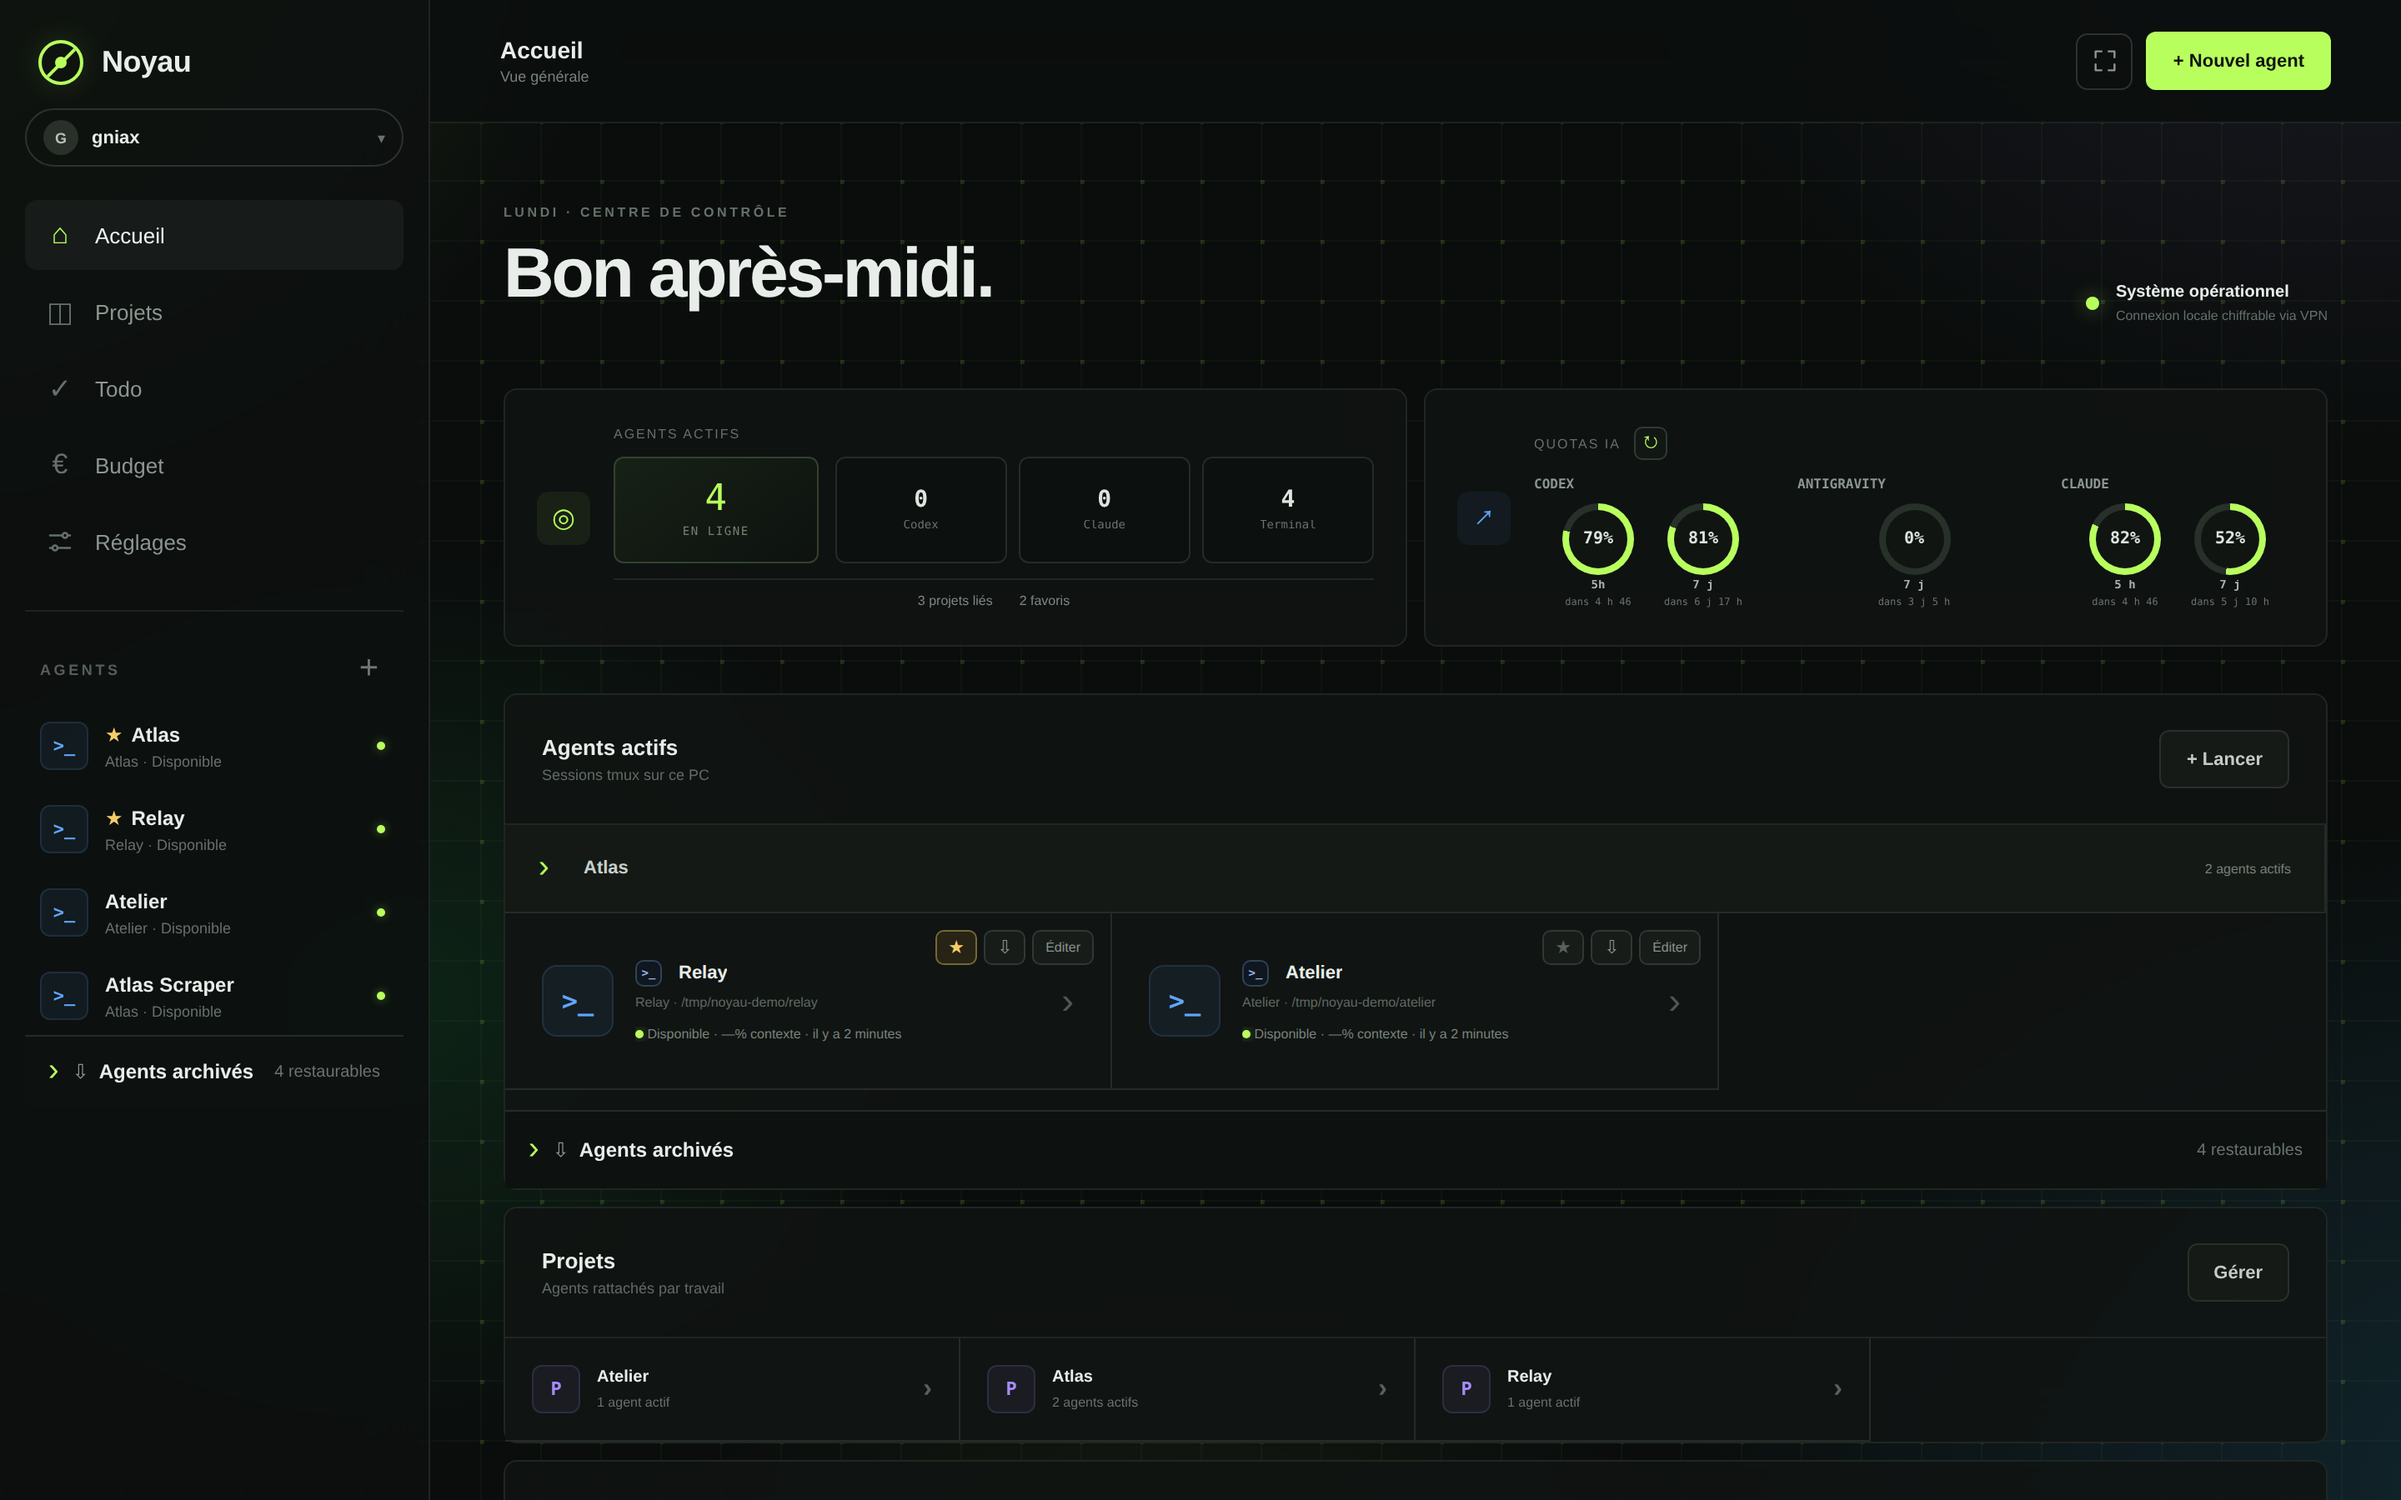
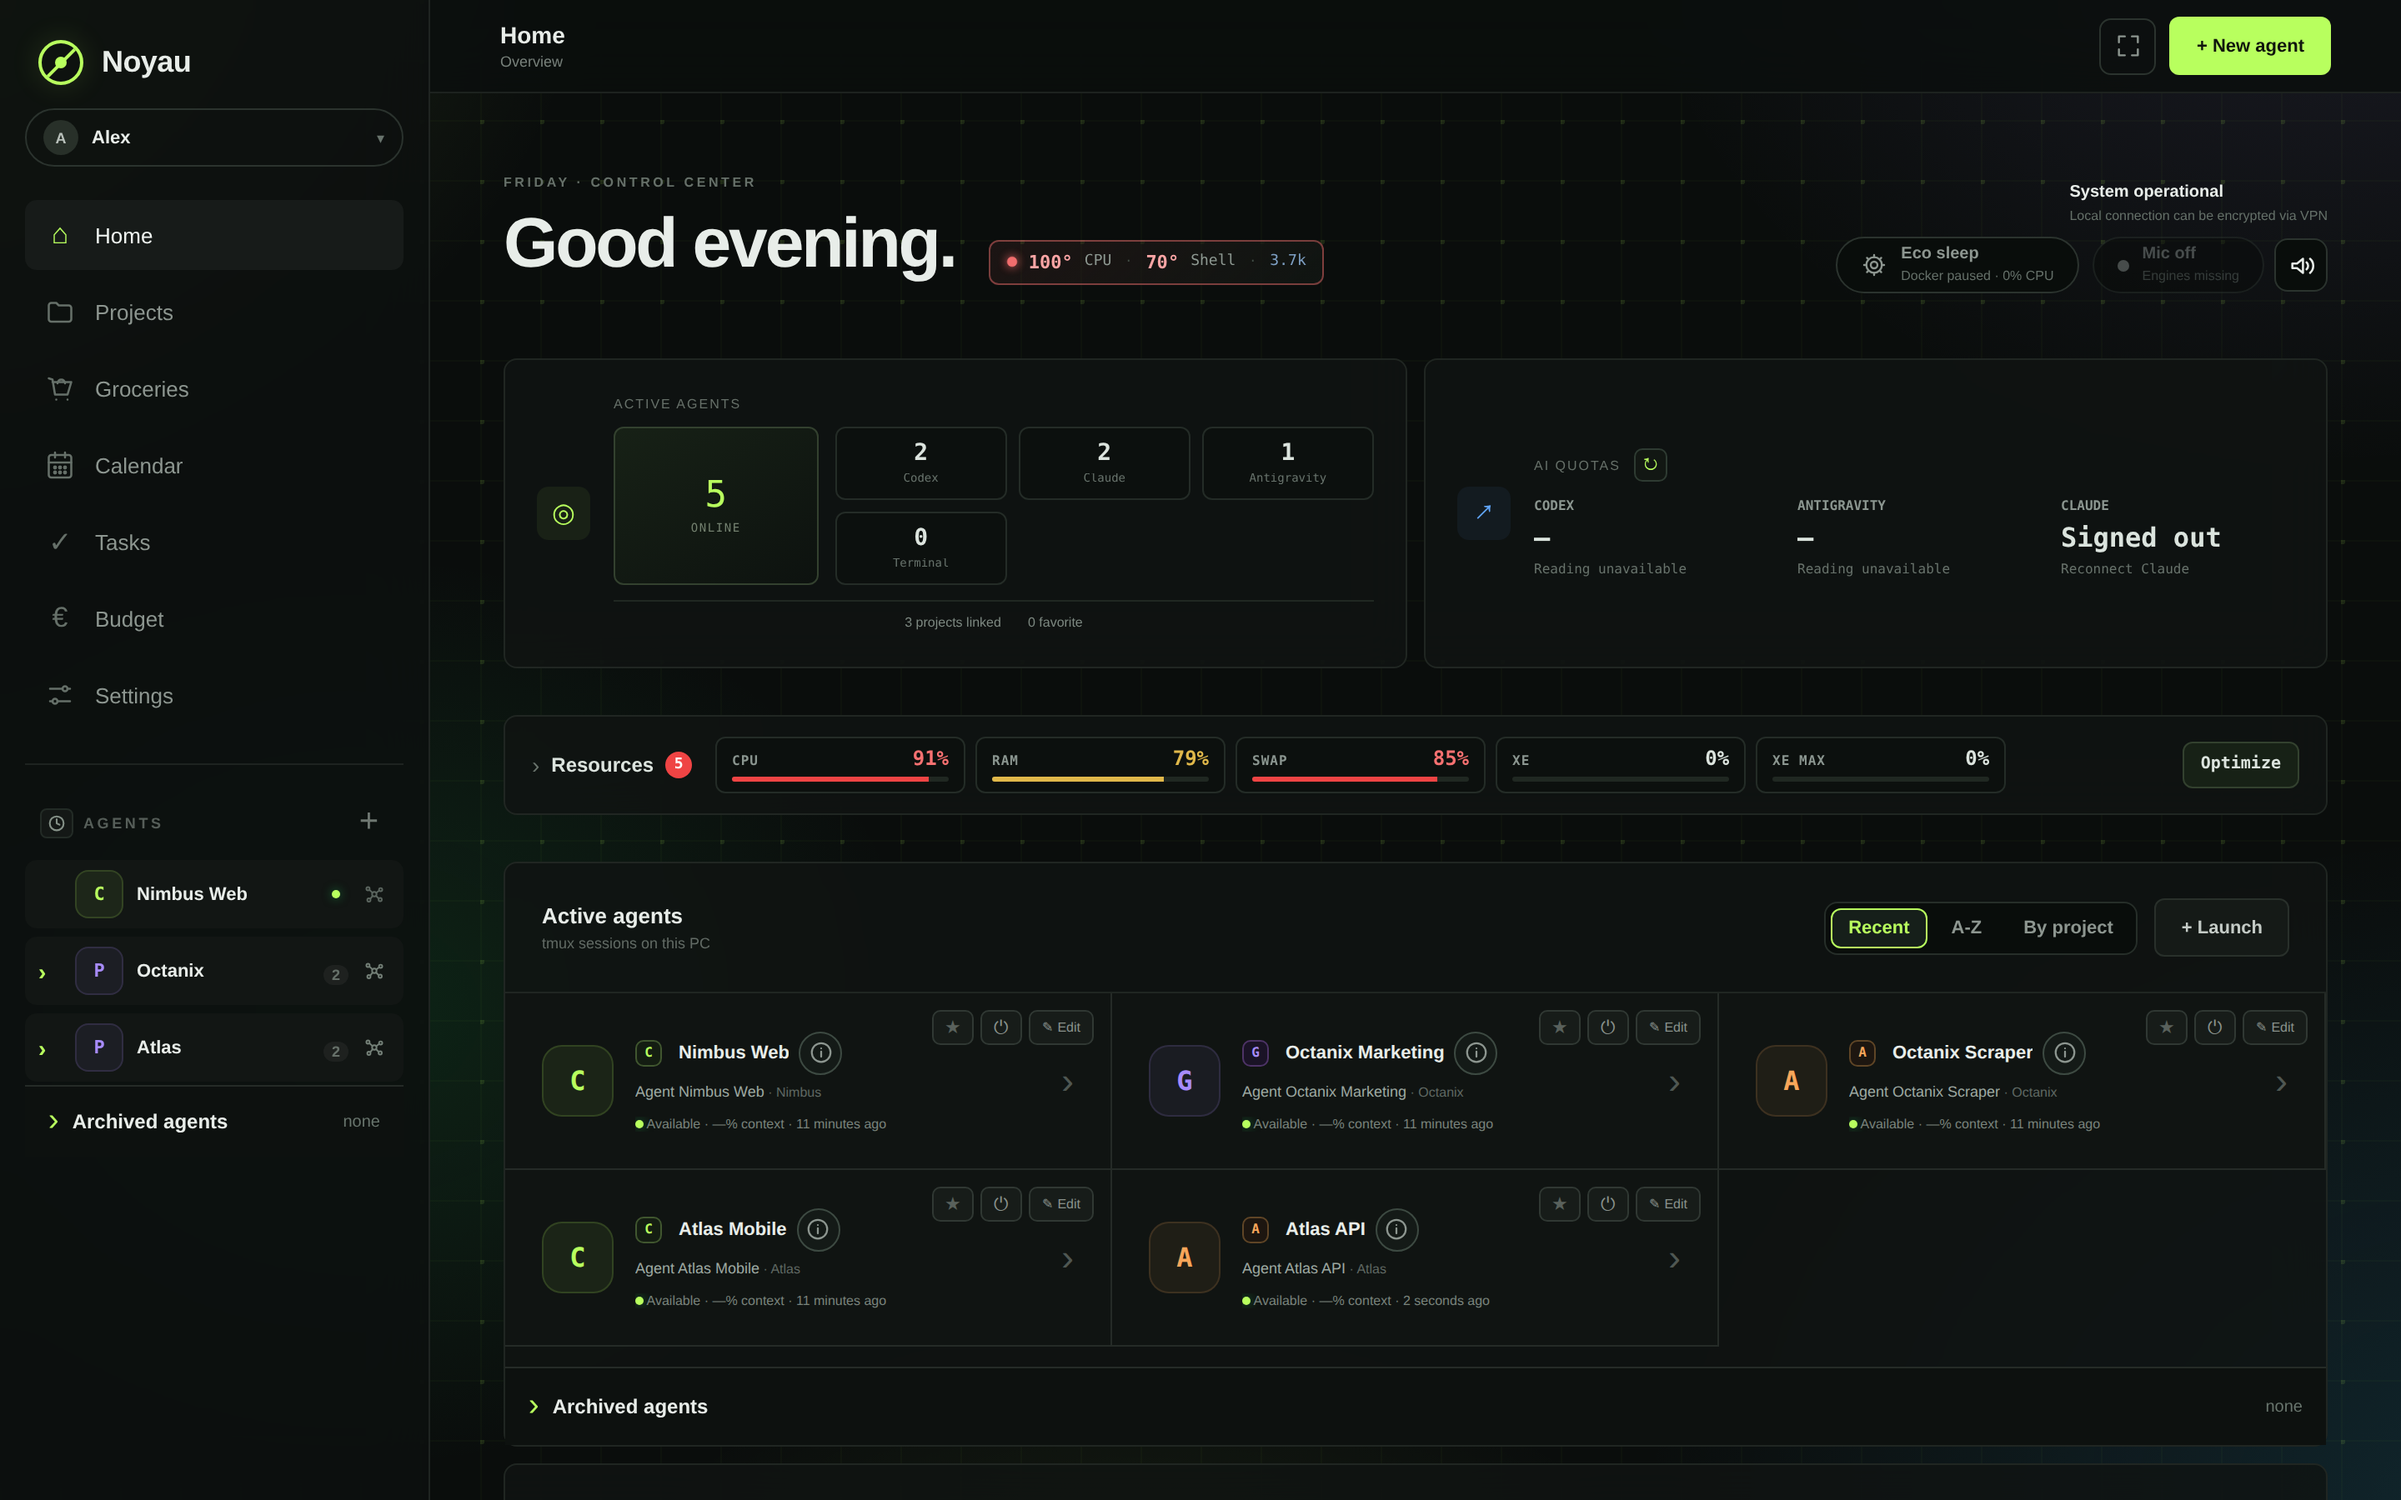
Noyau: developer-focused write-up and fresh English screenshots
Multi-agent memory, agent-to-agent messaging, engine switching, project map and
shared files, shown on a demo instance with fictional data.

diff --git a/app.js b/app.js
@@ -925,20 +925,20 @@ const projects = {
     category: "systems",
     filters: ["ai", "tools", "software"],
     sortYear: 2026,
-    sortMonth: 9,
-    railNote: "AI agents, tmux sessions, task tracking",
+    sortMonth: 10,
+    railNote: "multi-agent memory, agent-to-agent, any engine",
     period: "current",
     kind: "Local control center",
     title: "Noyau",
     summary:
-      "Local control center for CLI coding agents: Codex, Claude Code and Antigravity run in persistent tmux sessions, driven from a web UI that also tracks tasks, projects and budget.",
-    tech: ["Node.js", "Express", "React", "WebSocket", "tmux", "Linux"],
-    meta: ["AI agents", "Real-time terminal", "PWA", "Web Push", "Obsidian", "Self-hosted"],
+      "Local control center for CLI coding agents: Claude Code, Codex and Antigravity run side by side in persistent tmux sessions, share a memory that survives engine switches, hand work to each other and drop deliverables in shared project files.",
+    tech: ["Node.js", "Express", "React", "WebSocket", "tmux", "pdf.js", "Capacitor", "Linux"],
+    meta: ["Multi-agent", "Persistent memory", "Agent-to-agent", "Project map", "PWA & native app", "EN / FR", "Self-hosted"],
     points: [
-      "Agents survive tabs, restarts and network drops — each one is a tmux session streamed to xterm.js over a WebSocket, with a touch key bar and provider switching that carries the conversation over.",
-      "Task board stored as hand-editable Markdown in an Obsidian vault: custom zones, short *A1B2 references clickable inside an agent terminal, unread badges and agent-written comments.",
-      "Envelope-based budget on the side: recurring charges, tracked assets, a monthly plan and LLM-assisted categorisation, with an optional bank connection.",
-      "A prompt hook feeds each agent the open tasks of its project and makes it record every change or bug, so nothing gets lost between sessions.",
+      "One agent, any engine: switch an agent from Claude Code to Codex or Antigravity and back in the same tmux pane — identity, project and context carry over through an automatic handover.",
+      "Persistent multi-agent memory: durable notes, decisions and checkpoints per agent, injected at start-up and after every switch, written by the agents themselves before their context changes.",
+      "Agents talk to each other from their own terminal (list, read context, send, create), with messages queued while you type; a live project map shows who runs what and who talks to whom, plus the APIs detected in the code.",
+      "Shared files per project with one-click previews in the chat (images, PDF via pdf.js, media, CSV), a Trello-style task board in Markdown fed by a prompt hook, optional modules and an English/French UI.",
     ],
     links: [
       { label: "View source", url: "https://github.com/gniax/noyau" },
@@ -946,12 +946,14 @@ const projects = {
     media() {
       return renderSlider("noyau-media", [
         "assets/images/noyau/hero.jpg",
+        "assets/images/noyau/terminal.png",
+        "assets/images/noyau/provider-switch.png",
+        "assets/images/noyau/agent-memory.png",
+        "assets/images/noyau/project-map.png",
+        "assets/images/noyau/shared-files.png",
         "assets/images/noyau/dashboard.png",
         "assets/images/noyau/todos-board.png",
         "assets/images/noyau/projects.png",
-        "assets/images/noyau/terminal.png",
-        "assets/images/noyau/budget.png",
-        "assets/images/noyau/todos-folders.png",
       ]);
     },
   },
@@ -2005,7 +2007,7 @@ function renderProject(project) {
 
 // Note affichee sur la premiere vue d'un carrousel: sert a signaler une image retouchee.
 const SLIDER_NOTES = {
-  "noyau-media": "Image edited with AI: agent names, projects and figures were replaced so no real data shows — it does not match the real interface exactly.",
+  "noyau-media": "Screenshots of a demo instance with fictional projects, agents and tasks — no real data.",
 };
 
 function renderSlider(id, images) {
